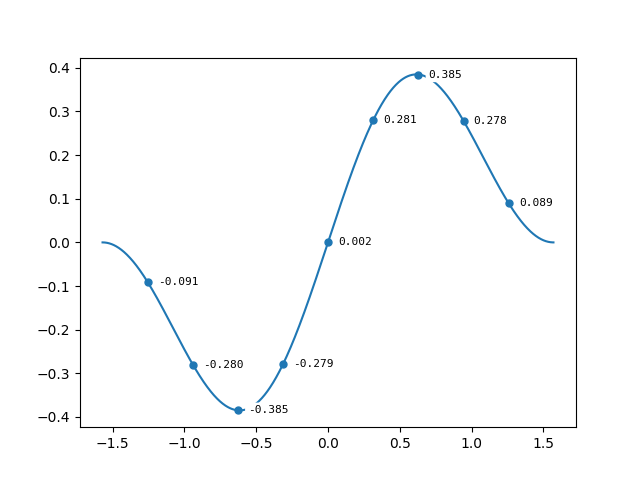
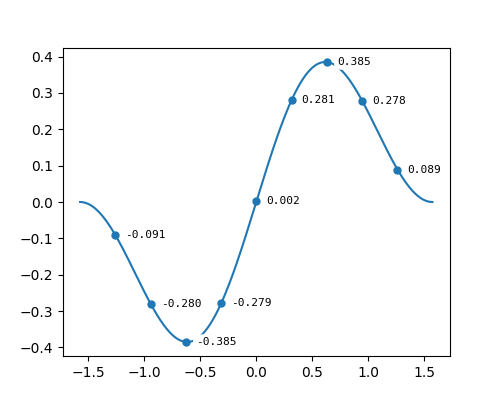
make example figure smaller, clean up comments

diff --git a/mpl_markers/utils.py b/mpl_markers/utils.py
@@ -260,7 +260,6 @@ def stack_ylabels(axes, markers: list=None):
 
         # sort each label in ascending y order. Use the last xy display coordinates from a set_position call
         # that was not from deconflict labels. This keeps the labels in absolute ascending y order.
-
         sorted_g = sorted(g, key=lambda x: x._persistent_y)
 
         # build an array of all label bboxes
@@ -272,6 +271,7 @@ def stack_ylabels(axes, markers: list=None):
 
             a = g_mid + i
 
+            # push "a" label up if any "b" label below it overlaps 
             for j in range(i + 1):
                 
                 b = a - (j + 1)
@@ -280,10 +280,9 @@ def stack_ylabels(axes, markers: list=None):
                     
         # start again in the middle, this time pushing labels down
         for i in range(g_mid):
-
-            # get bbox for both labels
             a = g_mid - i - 1
 
+            # push "a" label down if any "b" label above it overlaps 
             for j in range(i + 1):
 
                 b = a + (j + 1)
@@ -291,15 +290,15 @@ def stack_ylabels(axes, markers: list=None):
                 push_bbox(g_bbox[a], g_bbox[b], y_order="ab")
     
         # start from the top and push labels down if there is overlap with the top axes
-
         for i in range(len(g)):
             a = len(g) -i - 1
-            
+
+            # move labels that are above the axes bounds down into the axes
             ax_overlap_top =  g_bbox[a][1, 1] - ax_bbox[1, 1]
-            
             if ax_overlap_top > 0:
                 g_bbox[a, :, 1] -= ax_overlap_top
-        
+
+            # push "a" label down if any "b" label above it overlaps 
             for j in range(i + 1):
 
                 b = a + (j + 1)
@@ -309,15 +308,16 @@ def stack_ylabels(axes, markers: list=None):
                 # a is below b
                 push_bbox(g_bbox[a], g_bbox[b], y_order="ab")
 
-
+        # start from the bottom and push labels up if there is overlap with the bottom axes
         for i in range(len(g)):
             a = i
-            # start from the bottom and push labels up if there is overlap with the bottom axes
-            ax_overlap_btm =  ax_bbox[0, 1] - g_bbox[a][0, 1]
 
+            # move labels that are below the axes bounds up into the axes
+            ax_overlap_btm =  ax_bbox[0, 1] - g_bbox[a][0, 1]
             if ax_overlap_btm > 0:
                 g_bbox[a, :, 1] += ax_overlap_btm
 
+            # push "a" label up if any "b" label below it overlaps 
             for j in range(i + 1):
 
                 b = a - (j + 1)

diff --git a/examples/line_markers.py b/examples/line_markers.py
@@ -7,7 +7,7 @@ mplm.set_style(
     ylabel=dict(fontfamily="monospace", bbox=dict(linewidth=0, facecolor="white", boxstyle="round4"))
 )
 
-fig, ax = plt.subplots(1,1)
+fig, ax = plt.subplots(1,1, figsize=(5, 4))
 
 x1 = np.linspace(-np.pi/2, np.pi/2, 1000)
 ax.plot(x1, np.sin(x1)*np.cos(x1)**2)
